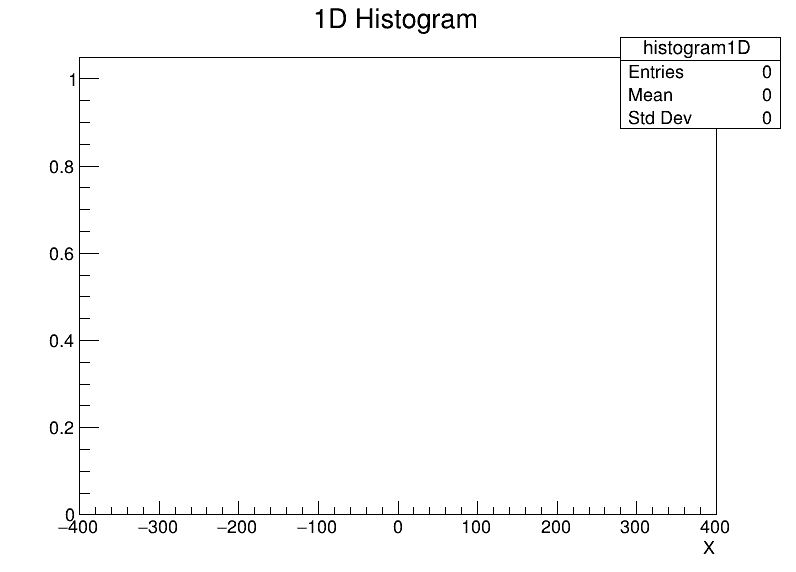
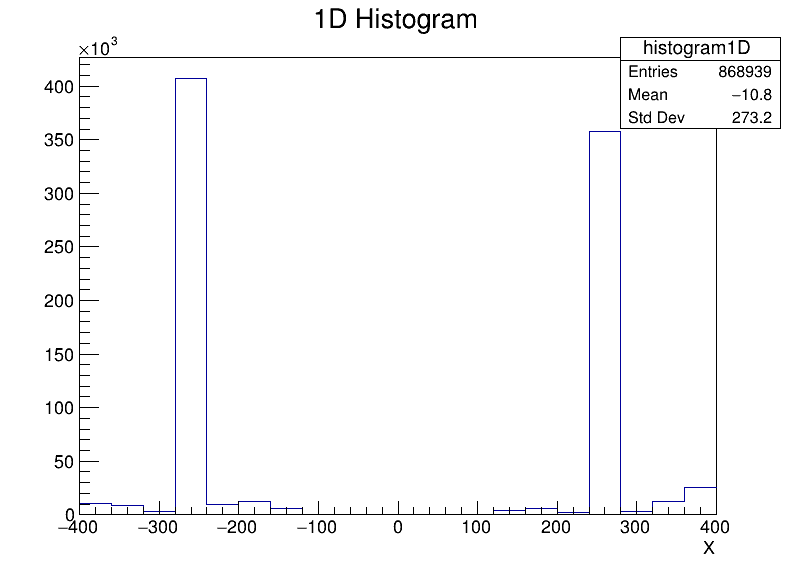
x face position cut using a tchain, code and graph

diff --git a/CRT_Dataset2/TChain2.C b/CRT_Dataset2/TChain2.C
@@ -10,24 +10,28 @@ void createAndFillHistogram(const std::string& inputDir, const std::string& outp
 	TH1D *histogram = new TH1D("histogram1D", "1D Histogram", 20, -400, 400);
 	std::vector<double> *cl_sp_x = nullptr;
 	std::vector<double> *cl_sp_z = nullptr;
-	bool cl_has_sp;
+	std::vector<bool> *cl_has_sp = nullptr;
 
 	chain->SetBranchAddress("cl_has_sp", &cl_has_sp);
 	chain->SetBranchAddress("cl_sp_x", &cl_sp_x);
 	chain->SetBranchAddress("cl_sp_z", &cl_sp_z);
 
 	Long64_t nEntries = chain->GetEntries();
-	for (Long64_t i = 0; i < nEntries; ++i) {
+	Long64_t maxEntriesPerFile = 1000;
+	Long64_t entriesToProcess = std::min(nEntries, maxEntriesPerFile);
+	for (Long64_t i = 0; i < entriesToProcess; ++i) {
 		chain->GetEntry(i);
-		if (cl_has_sp) {
-			for (size_t j = 0; j < cl_sp_x->size(); ++j) {
-				double x = (*cl_sp_x)[j];
-				double z = (*cl_sp_z)[j];
-				if (-250 < z && z < -150) {
-					histogram->Fill(x);
+		for (size_t k = 0; k < cl_has_sp->size(); ++k) {
+			if ((*cl_has_sp)[k]) {
+				for (size_t j = 0; j < cl_sp_x->size(); ++j) {
+					double x = (*cl_sp_x)[j];
+					double z = (*cl_sp_z)[j];
+					if (-250 < z && z < -150) {
+						histogram->Fill(x);
+					}	
 				}
 			}
-		}
+		}	
 	}
 	
 	histogram->GetXaxis()->SetTitle("X");
@@ -41,7 +45,7 @@ void createAndFillHistogram(const std::string& inputDir, const std::string& outp
 }
 
 int TChain2() {
-	std::string inputDir = "/path/to/your/files";
+	std::string inputDir = "/pnfs/sbnd/persistent/users/hlay/crt_comm_summer_2024";
 	std::string outputFilename = "1DHistogram.png";
 	createAndFillHistogram(inputDir, outputFilename);
 	return 0;
